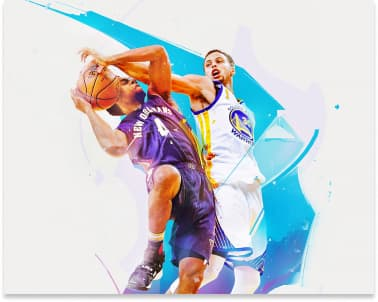
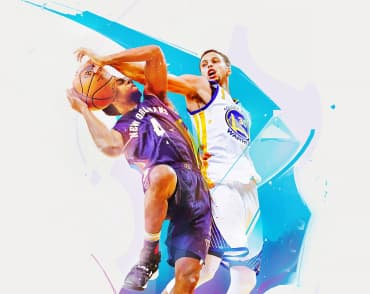
change background-main and del shadow from images

diff --git a/css/styles.css b/css/styles.css
@@ -10,7 +10,7 @@ background-OurTeam #F5F4FA */
     --logo-studio-footer: #ffffff;
     --title-color: #212121;
     --text-color: #757575;
-    --background-main: #f5f5f5;
+    --background-main: #fff;
     --background-footer: #2F303A;
     --background-hero: #2F303A;
 }
